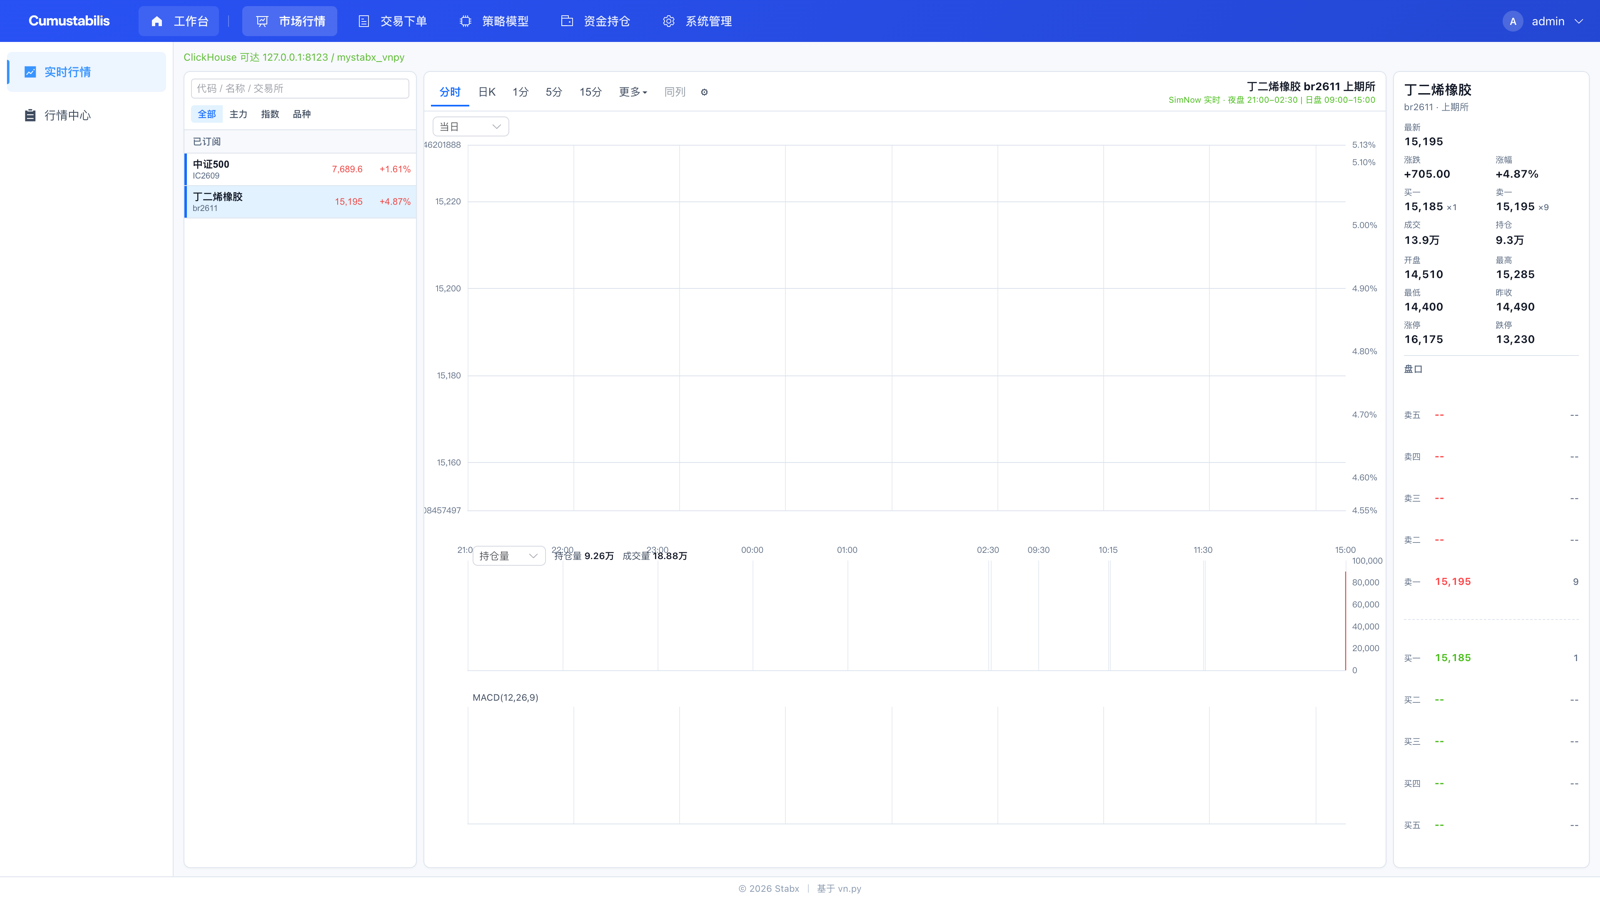
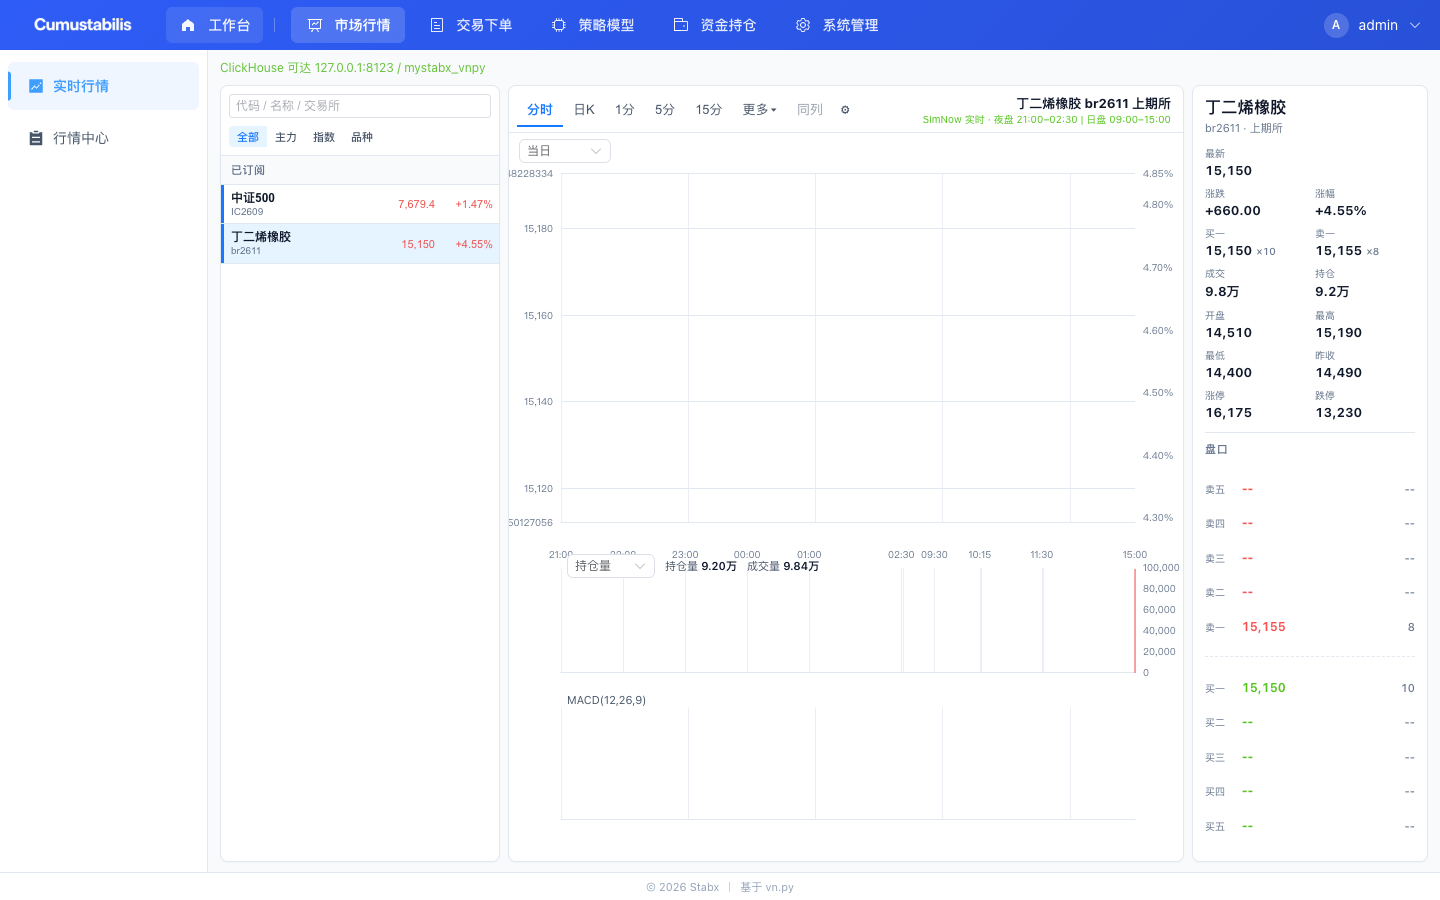
📝 [docs] 刷新界面预览截图并补充策略模型页

diff --git a/README.md b/README.md
@@ -33,6 +33,10 @@
 |---|---|
 | ![市场行情](docs/images/ui-market.png) | ![交易下单](docs/images/ui-trade.png) |
 
+| 策略模型 |
+|---|
+| ![策略模型](docs/images/ui-strategy-models.png) |
+
 ## 仓库地址
 
 | 平台 | 地址 | 说明 |
